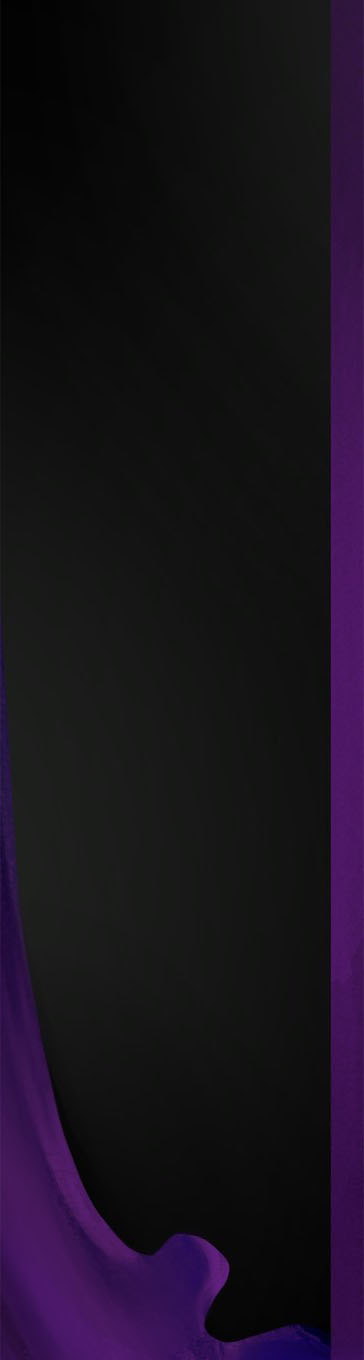
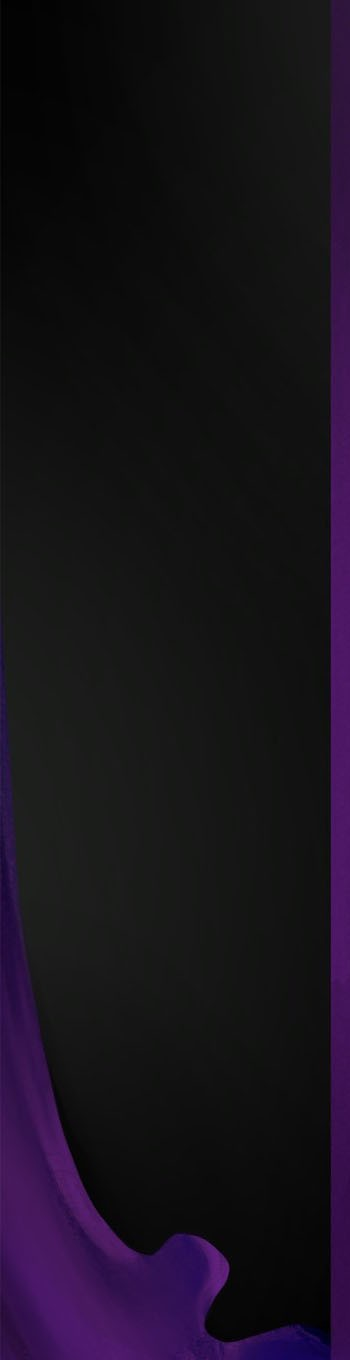
updated sidebar image

diff --git a/index.html b/index.html
@@ -113,16 +113,11 @@
                        playsinline></video>
                 <div class="intro-bg-overlay"></div>
             </div>
-            <div class="col-md-7 col-lg-push-1 center-block animate-box">
+            <div class="col-12 col-md-7 col-lg-push-1 center-block animate-box">
                 <div class="about-desc">
-                    <div class="owl-carousel3">
                         <div class="item">
                             <h2><span>Hi, I'm</span><span>Ioana Raileanu</span></h2>
                         </div>
-                        <div class="item">
-                            <h2><span>I'm a</span><span>Gameplay Programmer</span></h2>
-                        </div>
-                    </div>
                     <div class="desc">
                         <div class="rotate">
                             <h2 class="heading">Welcome</h2>

diff --git a/css/style.css b/css/style.css
@@ -529,6 +529,7 @@ header .colorlib-navbar-brand .colorlib-logo:active, header .colorlib-navbar-bra
     left: 30px;
 }
 
+
 .about-desc .rotate .heading {
     font-family: "Karla", Arial, sans-serif;
     font-size: 14px;
@@ -2322,5 +2323,11 @@ h1, h2, h3, h4, h5, h6 a{
     background: rgba(17, 8, 35, 0.68); /* dark overlay */
     z-index: -2;
     pointer-events: none;
+}
+
+@media (max-width: 767px) {
+    .intro-bg-container {
+        top:120px;
+    }
 }
 

diff --git a/sidebar.html b/sidebar.html
@@ -5,7 +5,8 @@
 </div>
 <div class="sidebar-hover">
 
-    <div class="left-table" style="background-image: url(images/border3.jpg); background-size: cover;" id="sidebar">
+    <div class="left-table" style="background-image: url(images/border.jpg); background-size: cover;
+background-position: bottom right;" id="sidebar">
 
         <div style="text-align: center;">
             <a href="#">
